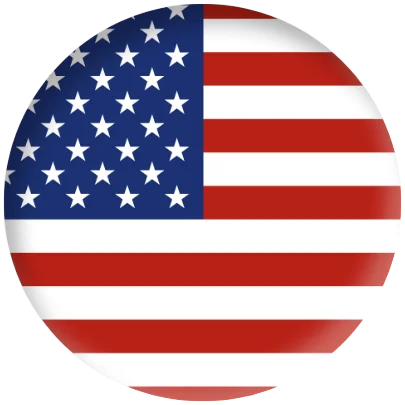
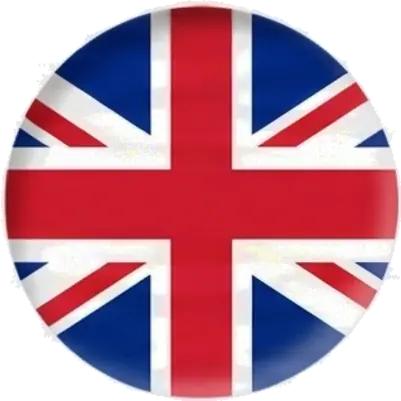
fix: paleta do hero, ícone Kids, foto Floating Class e bandeira
Paleta:
- Substitui as cores dos slides/cards que destoavam da identidade
  visual (roxo, terracota, teal) por variações de tom dentro da
  própria paleta da marca (azul e amarelo): slate-blue (Floating
  Class), âmbar/dourado (Kids) e azul-oceano (Dive In), como
  variáveis CSS reutilizadas em hero e cards
- Ajusta contraste do destaque de texto no card/slide Kids (navy em
  vez de amarelo, mesma combinação já usada nos botões do site)

Ícone CÉOS Kids:
- Troca a silhueta de criança (pouco legível em tamanho pequeno)
  pelos blocos de alfabeto (ABC), construídos como ícone vetorial no
  mesmo estilo dos demais programas

Slide Floating Class:
- Substitui o ícone de relógio por uma foto real (recorte P&B com
  borda de recorte, mesmo tratamento das outras figuras do hero)

Centralização da figura do hero:
- Corrige o dimensionamento da figura em monitores largos (top+
  bottom+height:auto era ambíguo e a limitava antes da hora); agora
  usa altura explícita via calc(), preenchendo melhor o espaço
  disponível e com mais respiro da borda direita

Bandeira do curso de Inglês:
- Usa a imagem fornecida (Union Jack), removendo o fundo branco
  (preenchimento por região + descontaminação de cor da borda) e
  ajustando para o mesmo tamanho/proporção das demais bandeiras

diff --git a/index.html b/index.html
@@ -7,7 +7,7 @@
     <title>CÉOS - Escola de Idiomas</title>
     <meta
       name="description"
-      content="CÉOS Escola de Idiomas — Inglês, Espanhol, Francês e mais de 10 idiomas. Metodologia aprovada, certificado Cambridge e aulas presenciais ou on-line em Itaguaí, RJ."
+      content="CÉOS Escola de Idiomas — Inglês, Espanhol, Francês e mais de 10 idiomas. Metodologia aprovada, material didático Cambridge e aulas presenciais ou on-line em Itaguaí, RJ."
     />
     <link rel="preconnect" href="https://fonts.googleapis.com" />
     <link rel="preconnect" href="https://fonts.gstatic.com" crossorigin />
@@ -158,23 +158,23 @@
           />
         </div>
 
-        <!-- Slide 3 — CÉOS Dive In -->
-        <div class="hero-slide hero-slide--figure hero-slide--dive">
+        <!-- Slide 3 — CÉOS Floating Class -->
+        <div class="hero-slide hero-slide--figure hero-slide--floating">
           <div class="hero-overlay-content">
-            <span class="hero-eyebrow">Imersão total</span>
-            <h2 class="hero-title">CÉOS <span>Dive In</span></h2>
+            <span class="hero-eyebrow">Flexível</span>
+            <h2 class="hero-title">CÉOS <span>Floating Class</span></h2>
             <p class="hero-text">
-              Destrave a fala e comece a pensar em inglês — uma imersão real,
-              como um intercâmbio sem sair do Brasil.
+              Assista às aulas conforme a sua disponibilidade, sem dia e
+              horário fixos — flexibilidade total para a sua rotina.
             </p>
-            <a href="#cursos" class="btn-estude hero-cta">Quero mergulhar</a>
+            <a href="#cursos" class="btn-estude hero-cta">Saiba mais</a>
           </div>
           <img
-            class="hero-figure hero-figure--wide"
-            src="assets/img/hero/diver.webp"
-            alt="Mergulhador — imersão total no idioma"
-            width="2560"
-            height="1440"
+            class="hero-figure"
+            src="assets/img/hero/floating.webp"
+            alt="Pessoa conferindo o horário — CÉOS Floating Class"
+            width="744"
+            height="1000"
             loading="lazy"
           />
         </div>
@@ -199,6 +199,27 @@
             loading="lazy"
           />
         </div>
+
+        <!-- Slide 5 — CÉOS Dive In (fecha a sequência dos programas) -->
+        <div class="hero-slide hero-slide--figure hero-slide--dive">
+          <div class="hero-overlay-content">
+            <span class="hero-eyebrow">Imersão total</span>
+            <h2 class="hero-title">CÉOS <span>Dive In</span></h2>
+            <p class="hero-text">
+              Destrave a fala e comece a pensar em inglês — uma imersão real,
+              como um intercâmbio sem sair do Brasil.
+            </p>
+            <a href="#cursos" class="btn-estude hero-cta">Quero mergulhar</a>
+          </div>
+          <img
+            class="hero-figure hero-figure--wide"
+            src="assets/img/hero/diver.webp"
+            alt="Mergulhador — imersão total no idioma"
+            width="2560"
+            height="1440"
+            loading="lazy"
+          />
+        </div>
       </div>
 
       <button class="hero-arrow hero-prev" id="heroPrev" type="button" aria-label="Slide anterior">‹</button>
@@ -207,6 +228,7 @@
       <div class="hero-dots-container">
         <div class="hero-dots" id="heroDots">
           <span class="active"></span>
+          <span></span>
           <span></span>
           <span></span>
           <span></span>
@@ -471,28 +493,6 @@
         </button>
 
         <button
-          class="special-card special-card--divein"
-          type="button"
-          data-curso="divein"
-        >
-          <span class="special-badge">Imersão</span>
-          <img
-            src="assets/img/diferenciais/7-dive-in-white.webp"
-            width="110"
-            height="110"
-            loading="lazy"
-            alt="CÉOS Dive In"
-            class="special-icon"
-          />
-          <h3 class="special-title">CÉOS <span>Dive In</span></h3>
-          <p class="special-text">
-            Imersão total no inglês — como um intercâmbio sem sair do Brasil.
-            Viva, respire e pense em inglês.
-          </p>
-          <span class="special-link">Saiba mais</span>
-        </button>
-
-        <button
           class="special-card special-card--floatingclass"
           type="button"
           data-curso="floatingclass"
@@ -510,6 +510,50 @@
           <p class="special-text">
             Assista às aulas conforme a sua disponibilidade, sem dia e horário
             fixos — flexibilidade total para encaixar o inglês na sua rotina.
+          </p>
+          <span class="special-link">Saiba mais</span>
+        </button>
+
+        <button
+          class="special-card special-card--kids"
+          type="button"
+          data-curso="kids"
+        >
+          <span class="special-badge">Diversão</span>
+          <img
+            src="assets/img/diferenciais/kids-white.webp"
+            width="110"
+            height="110"
+            loading="lazy"
+            alt="CÉOS Kids"
+            class="special-icon"
+          />
+          <h3 class="special-title">CÉOS <span>Kids</span></h3>
+          <p class="special-text">
+            Inglês para crianças, com os melhores materiais e uma metodologia
+            que transforma aprendizado em diversão.
+          </p>
+          <span class="special-link">Saiba mais</span>
+        </button>
+
+        <button
+          class="special-card special-card--divein"
+          type="button"
+          data-curso="divein"
+        >
+          <span class="special-badge">Imersão</span>
+          <img
+            src="assets/img/diferenciais/7-dive-in-white.webp"
+            width="110"
+            height="110"
+            loading="lazy"
+            alt="CÉOS Dive In"
+            class="special-icon"
+          />
+          <h3 class="special-title">CÉOS <span>Dive In</span></h3>
+          <p class="special-text">
+            Imersão total no inglês — como um intercâmbio sem sair do Brasil.
+            Viva, respire e pense em inglês.
           </p>
           <span class="special-link">Saiba mais</span>
         </button>
@@ -570,7 +614,7 @@
             width="40"
             height="40"
           />
-          <span>Certificado Cambridge English</span>
+          <span>Material didático Cambridge English</span>
         </div>
         <div class="dif-badge">
           <img
@@ -1010,7 +1054,7 @@
         <!-- Coluna 3: Mapa -->
         <div class="footer-col-map">
           <iframe
-            src="https://www.google.com/maps/embed?pb=!1m18!1m12!1m3!1d3681.9!2d-43.7985!3d-22.8610!2m3!1f0!2f0!3f0!3m2!1i1024!2i768!4f13.1!3m3!1m2!1s0x0%3A0x0!2zMjLCsDUxJzM5LjYiUyA0M8KwNDcnNTQuNiJX!5e0!3m2!1spt-BR!2sbr!4v1234567890"
+            src="https://www.google.com/maps/embed?origin=mfe&pb=!1m2!2m1!1sC%C3%A9os%20Escola%20de%20Idiomas%2C%20Rua%20Doutor%20Curvelo%20Cavalcanti%20234%2C%20Itagua%C3%AD%20RJ"
             allowfullscreen=""
             loading="lazy"
             referrerpolicy="no-referrer-when-downgrade"

diff --git a/css/style.css b/css/style.css
@@ -10,9 +10,22 @@
   --yellow: #ffc300;
   --dark-blue: #1b3a6b;
   --navy: #0d2045;
+  --light-blue: #a9c5df;
   --gray-light: #f5f5f5;
   --text: #333333;
   --white: #ffffff;
+
+  /* Cores dos 4 programas especiais (hero + cards) — todas derivadas da
+     própria paleta (azul e amarelo da marca), variando tom/saturação em
+     vez de introduzir matizes novos (roxo/terracota/teal usados antes). */
+  --biz-1: var(--dark-blue);
+  --biz-2: var(--navy);
+  --float-1: #50729b;
+  --float-2: #203046;
+  --kids-1: #d5911a;
+  --kids-2: #5d3614;
+  --dive-1: #297bae;
+  --dive-2: #0e2949;
 
   /* Fluid spacing — referência: 1440px */
   --section-pad-v: clamp(40px, 5.5vw, 120px);
@@ -352,7 +365,7 @@ body {
 /* ===== PROGRAMAS ESPECIAIS (Business / Dive In / Floating Class) ===== */
 .special-programs {
   display: grid;
-  grid-template-columns: repeat(3, 1fr);
+  grid-template-columns: repeat(4, 1fr);
   gap: var(--gap-cards);
   margin-top: clamp(28px, 3.5vw, 56px);
 }
@@ -390,10 +403,13 @@ body {
   background: linear-gradient(140deg, var(--dark-blue), var(--navy));
 }
 .special-card--divein {
-  background: linear-gradient(140deg, #0e7c8b, #07344a);
+  background: linear-gradient(140deg, var(--dive-1), var(--dive-2));
 }
 .special-card--floatingclass {
-  background: linear-gradient(140deg, #5a4bab, #2a2258);
+  background: linear-gradient(140deg, var(--float-1), var(--float-2));
+}
+.special-card--kids {
+  background: linear-gradient(140deg, var(--kids-1), var(--kids-2));
 }
 .special-card:hover {
   transform: translateY(-6px);
@@ -429,6 +445,10 @@ body {
 }
 .special-title span {
   color: var(--yellow);
+}
+/* Kids tem fundo dourado — amarelo em cima ficaria com baixo contraste */
+.special-card--kids .special-title span {
+  color: var(--navy);
 }
 .special-text {
   position: relative;
@@ -1034,6 +1054,9 @@ footer {
   .dif-badges {
     grid-template-columns: repeat(2, 1fr);
   }
+  .special-programs {
+    grid-template-columns: repeat(2, 1fr);
+  }
   .testimonials-grid {
     grid-template-columns: repeat(2, 1fr);
   }
@@ -1622,19 +1645,50 @@ footer {
   color: var(--text);
   max-width: 46%;
 }
-.hero-slide--figure .hero-eyebrow {
+/* Intro (estátua) — único slide "figura" com fundo claro, texto escuro */
+.hero-slide--intro .hero-eyebrow {
   color: var(--dark-blue);
 }
-/* Uma cor por slide */
-.hero-slide--business {
-  background: #f4c95d;
-  --mark: #ffffff; /* marca-texto branco: o amarelo sumiria no dourado */
-}
+/* Os 4 pacotes usam o MESMO gradiente escuro dos cards em Programas
+   Especiais (não uma versão clara/pastel) — cor idêntica nas duas
+   seções, para identificação imediata do programa. */
+.hero-slide--business,
+.hero-slide--floating,
+.hero-slide--kids,
 .hero-slide--dive {
-  background: #a2d6dc;
+  color: #fff;
+}
+.hero-slide--business .hero-overlay-content,
+.hero-slide--floating .hero-overlay-content,
+.hero-slide--kids .hero-overlay-content,
+.hero-slide--dive .hero-overlay-content {
+  color: #fff;
+}
+.hero-slide--business .hero-title span,
+.hero-slide--floating .hero-title span,
+.hero-slide--dive .hero-title span {
+  color: var(--yellow);
+  background: none;
+  padding: 0;
+}
+/* Kids tem fundo dourado — amarelo em cima ficaria com baixo contraste,
+   então o destaque usa navy (mesma combinação já usada nos botões). */
+.hero-slide--kids .hero-title span {
+  color: var(--navy);
+  background: none;
+  padding: 0;
+}
+.hero-slide--business {
+  background: linear-gradient(140deg, var(--biz-1), var(--biz-2));
+}
+.hero-slide--floating {
+  background: linear-gradient(140deg, var(--float-1), var(--float-2));
 }
 .hero-slide--kids {
-  background: #f2a58c;
+  background: linear-gradient(140deg, var(--kids-1), var(--kids-2));
+}
+.hero-slide--dive {
+  background: linear-gradient(140deg, var(--dive-1), var(--dive-2));
 }
 /* Brilho/halo atrás da figura — dá contraste e profundidade */
 .hero-slide--figure::before {
@@ -1653,14 +1707,6 @@ footer {
   );
   pointer-events: none;
 }
-/* Botão do slide dourado com mais contraste */
-.hero-slide--business .hero-cta {
-  background: var(--navy);
-  color: #fff !important;
-}
-.hero-slide--business .hero-cta:hover {
-  background: var(--dark-blue);
-}
 /* Slide 1 (intro) — título longo: fonte menor e texto mais largo p/ caber */
 .hero-slide--intro .hero-overlay-content {
   max-width: 54%;
@@ -1674,12 +1720,16 @@ footer {
   .hero-slide--figure .hero-overlay-content {
     padding-top: clamp(28px, 5vh, 64px);
   }
-  /* Figura vertical (estátua/empresário) começa abaixo do cabeçalho — sem cortar */
+  /* Figura vertical (estátua/empresário) começa abaixo do cabeçalho — sem cortar.
+     Altura explícita (não "auto") remove a ambiguidade de top+bottom+height:auto,
+     que fazia a figura ficar pequena demais em monitores muito largos (ela era
+     limitada por max-width antes de conseguir esticar pela altura disponível). */
   .hero-figure {
     top: clamp(135px, 10vw, 172px);
-    bottom: 0;
-    height: auto;
-    max-width: 46%;
+    right: clamp(24px, 6vw, 180px);
+    bottom: auto;
+    height: calc(100% - clamp(135px, 10vw, 172px));
+    max-width: 58%;
   }
 }
 /* Figura horizontal (mergulhador) — centralizada à direita */

diff --git a/js/main.js b/js/main.js
@@ -227,6 +227,11 @@ const cursosData = {
     img: 'assets/img/diferenciais/9-floating-class.webp',
     desc: 'Pensando nos profissionais que têm a agenda flexível e imprevisível demais, nas pessoas que trabalham em turno ou viajam constantemente a trabalho, criamos uma modalidade exclusiva no Céos Escola de Idiomas, o "Floating Class". É um modelo exclusivo onde o aluno pode assistir às aulas de acordo com a sua própria disponibilidade de horários, sem a necessidade de se comprometer com um dia e horário fixo por semana. O aluno tem acesso a uma grade de horários predefinida pela escola e pode "flutuar" entre esses horários conforme sua conveniência, encaixando a aula em sua rotina da semana. Benefícios da Floating Class: flexibilidade total de agenda; maior aproveitamento do curso, já que o aluno não precisa faltar se surgir um imprevisto; custo mais acessível comparado a aulas particulares; e interação com diferentes colegas, promovendo uma experiência mais dinâmica e social.',
   },
+  kids: {
+    titulo: 'CÉOS Kids',
+    img: 'assets/img/diferenciais/kids.webp',
+    desc: 'O CÉOS Kids foi criado para que as crianças aprendam um novo idioma da forma mais natural possível: brincando. Utilizamos os melhores materiais didáticos infantis e uma metodologia lúdica, com músicas, jogos e atividades interativas, para transformar o aprendizado em diversão. As aulas estimulam a curiosidade e a confiança desde cedo, respeitando o ritmo de cada criança e desenvolvendo a fala, a escuta, a leitura e a escrita de maneira leve e prazerosa. É o primeiro passo para uma vida inteira de fluência.',
+  },
 };
 
 const courseModal = document.getElementById('courseModal');
